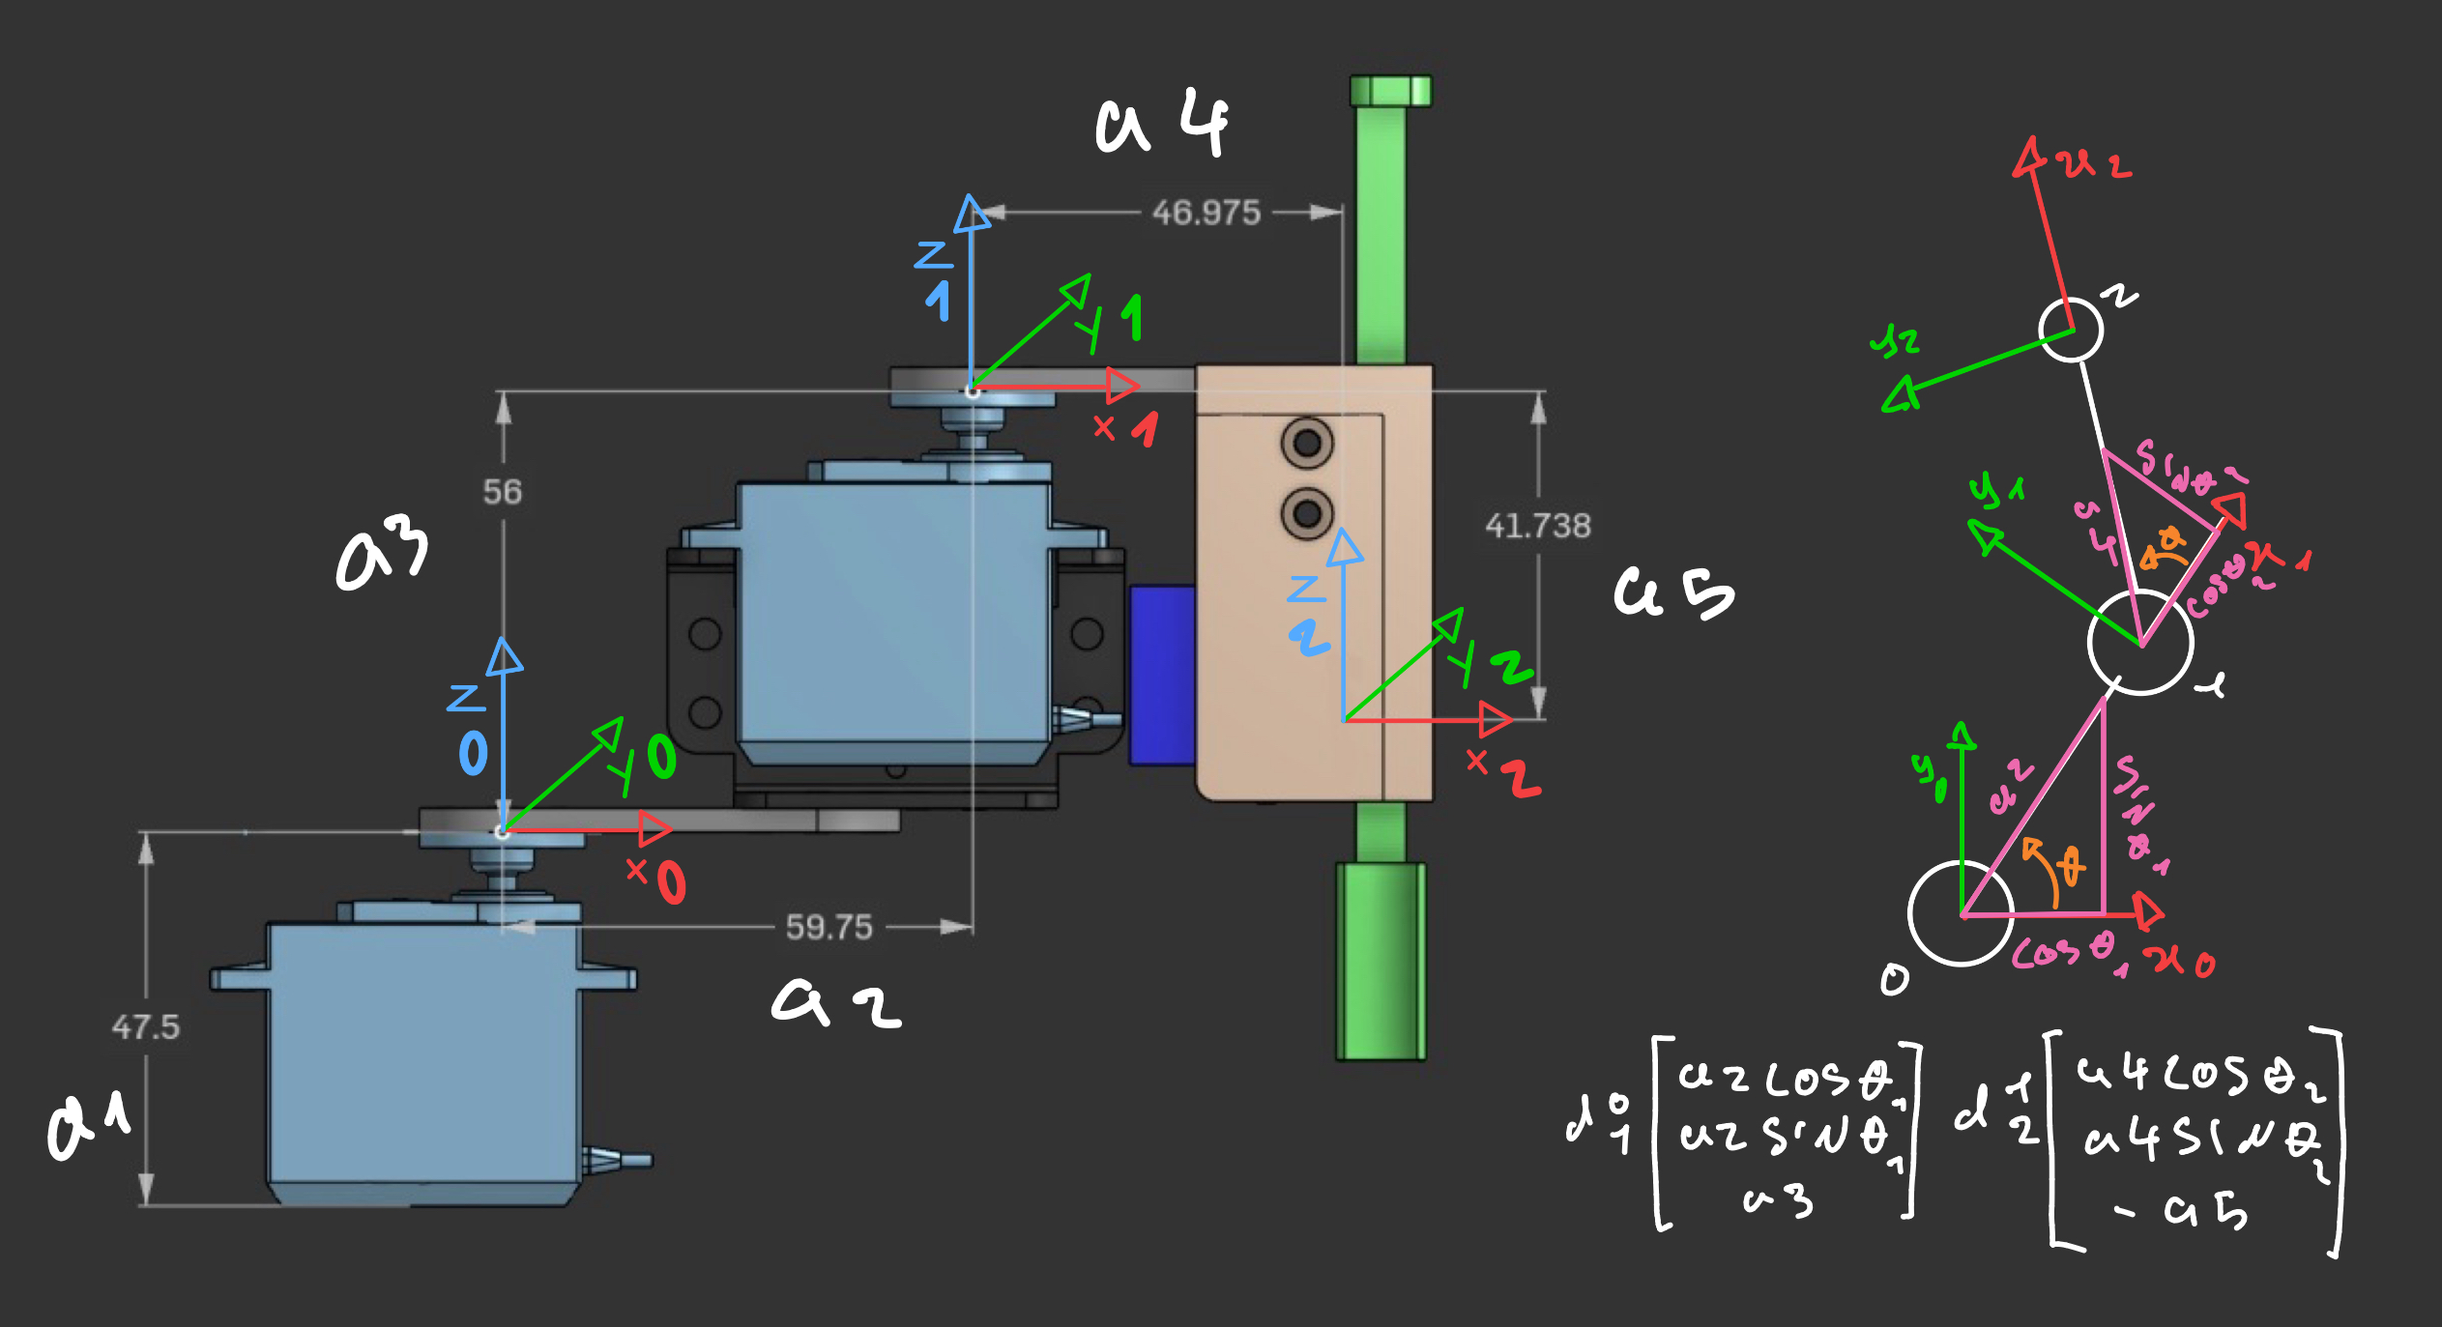
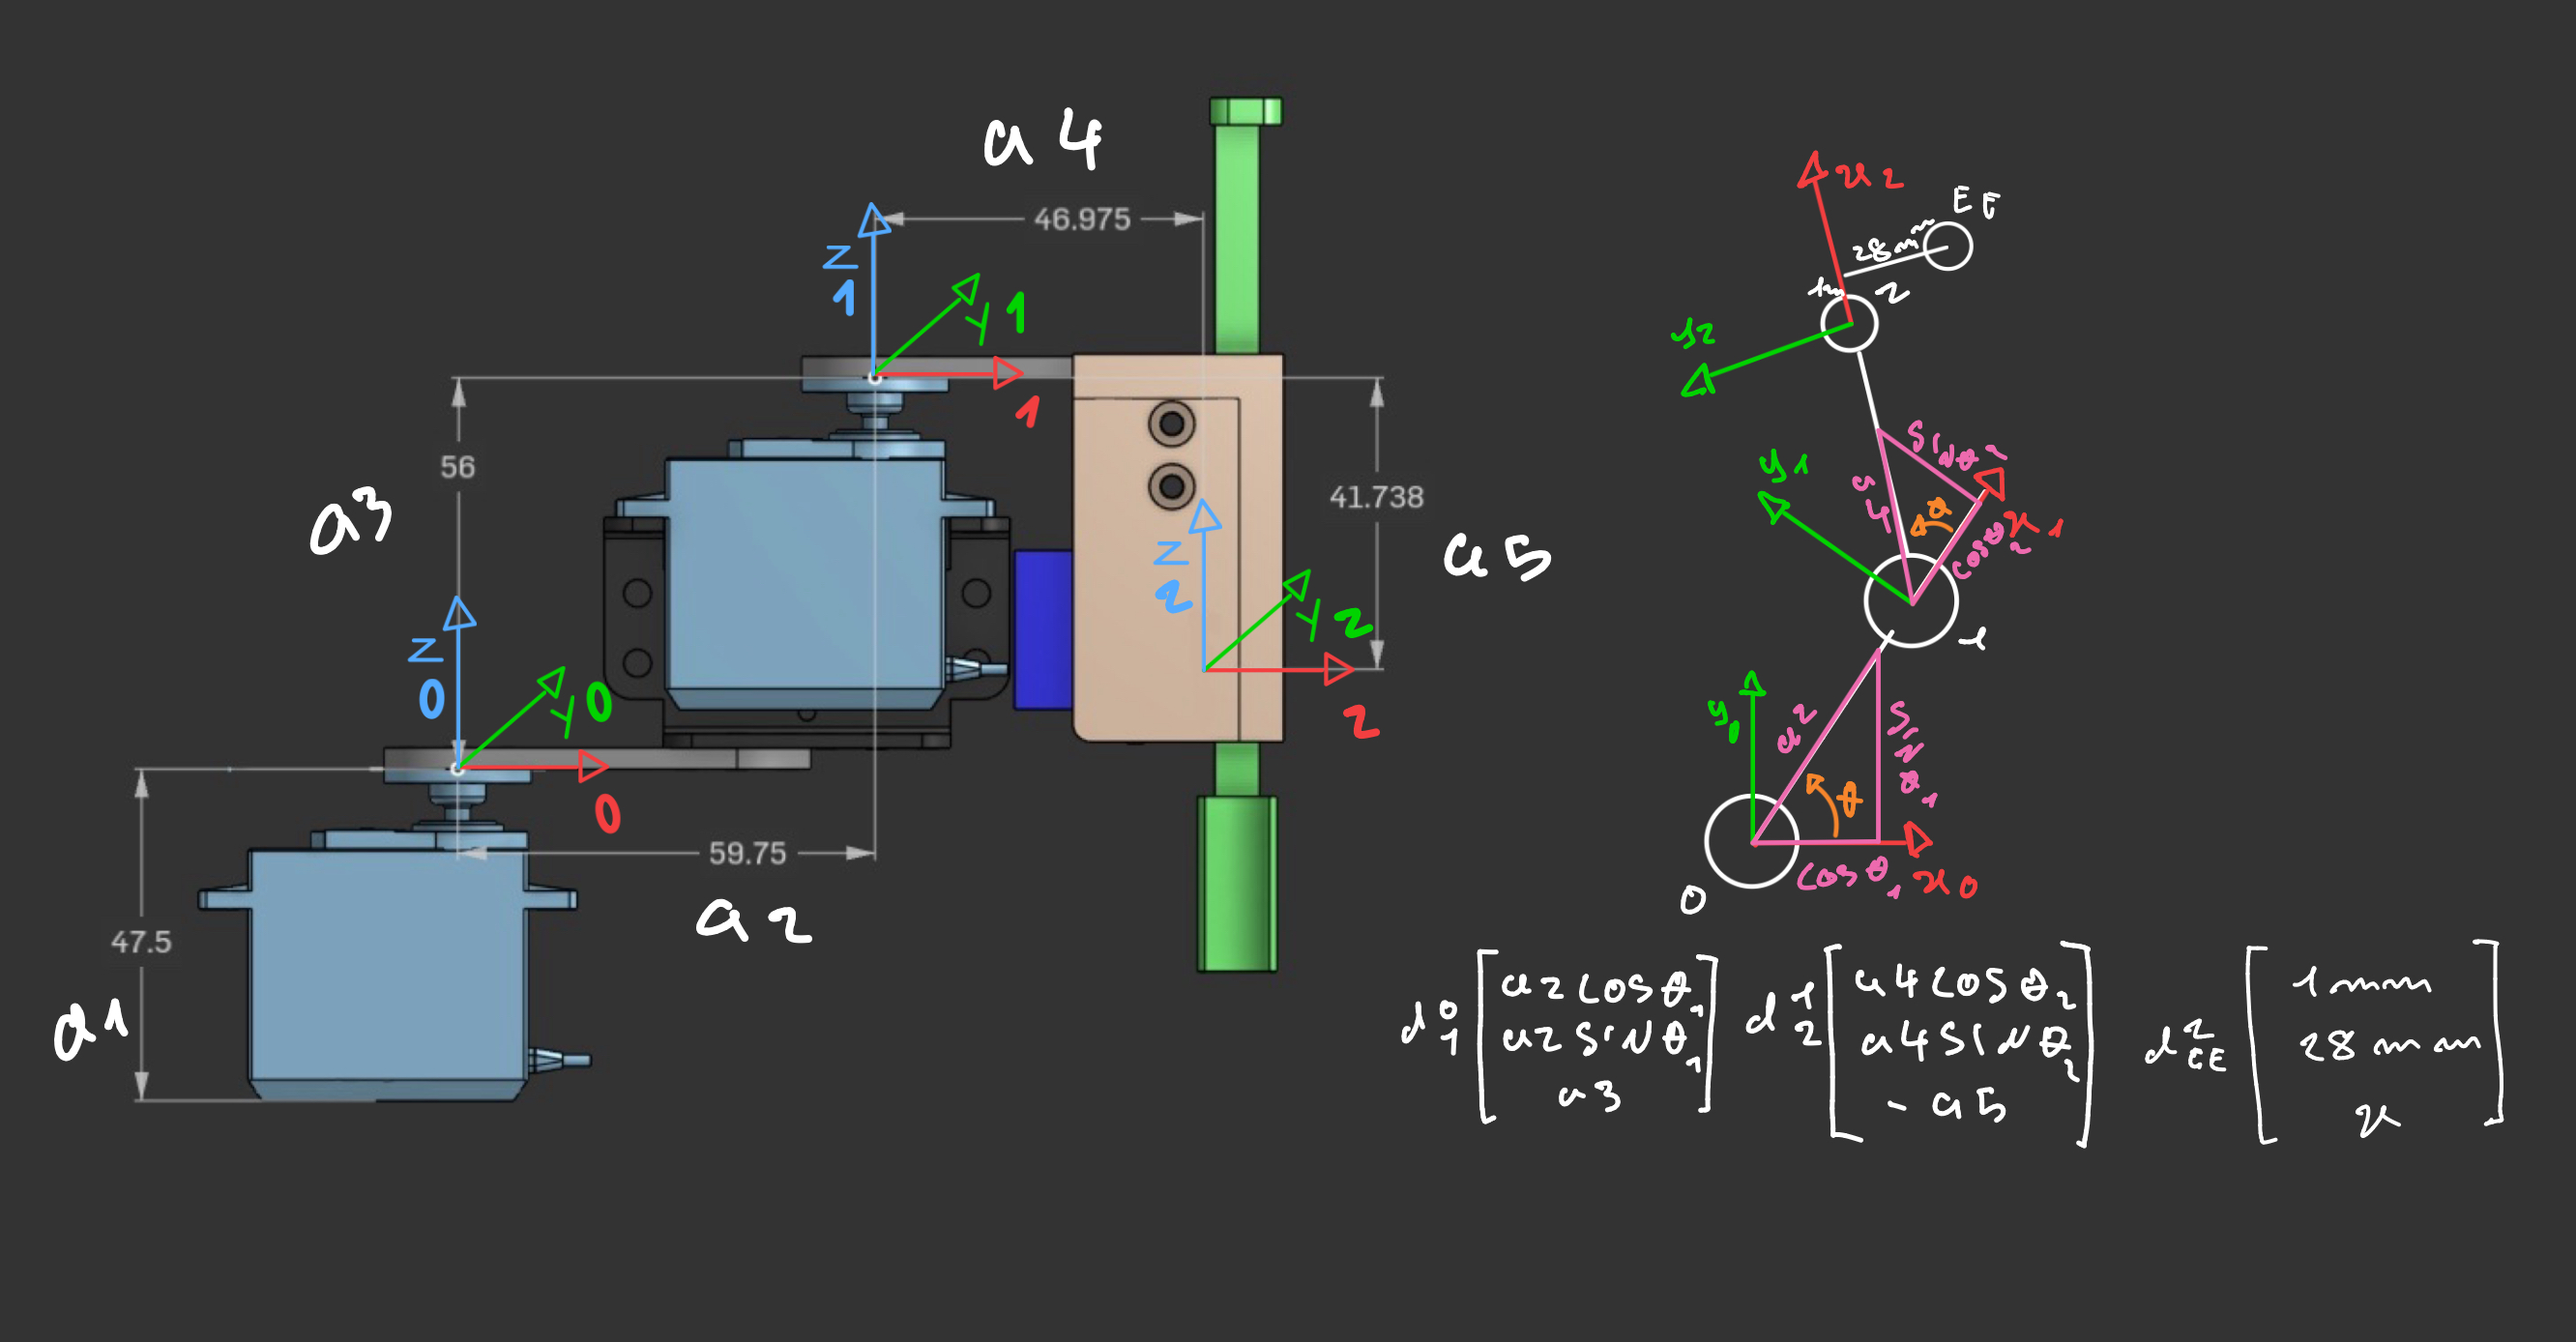
starting to account for the end effector

diff --git a/src/main.cpp b/src/main.cpp
@@ -49,40 +49,16 @@ void loop()
     float beta = acos(preBeta);
     float preAlpha = (xSqr + ySqr + L1Sqr - L2Sqr) / (2 * L1 * sqrt(xSqr + ySqr));
     float alpha = acos(preAlpha);
-    float phi = atan2(y, x);
-
-    Serial.print("preBeta = ");
-    Serial.println(preBeta);
-    Serial.print("beta = ");
-    Serial.println(beta);
-    Serial.print("preAlpha = ");
-    Serial.println(preAlpha);
-    Serial.print("alpha = ");
-    Serial.println(alpha);
-    Serial.print("phi = ");
-    Serial.println(phi);
+    float phi = atan2(y, x);                                                                                                                         
 
     float theta1 = phi - alpha;
     float theta2 = M_PI - beta;
 
-    Serial.print("theta1 = ");
-    Serial.println(theta1);
-    Serial.print("theta2 = ");
-    Serial.println(theta2);
-
     int pwm1 = constrain(round(theta1 / M_PI * 180.0), 0, 180);
     int pwm2 = constrain(round(theta2 / M_PI * 180.0), 0, 180);
 
-    Serial.print("pwm1 = ");
-    Serial.println(pwm1);
-    Serial.print("pwm2 = ");
-    Serial.println(pwm2);
-    Serial.println("-----------------------------");
-
     setServoAngle(LEDC_CHANNEL_1, 90 - pwm1);
     setServoAngle(LEDC_CHANNEL_2, 90 - pwm2); // 83
-    // setServoAngle(LEDC_CHANNEL_1,45);
-    // setServoAngle(LEDC_CHANNEL_2, 45); // 83
 
     delay(1000);
 }
